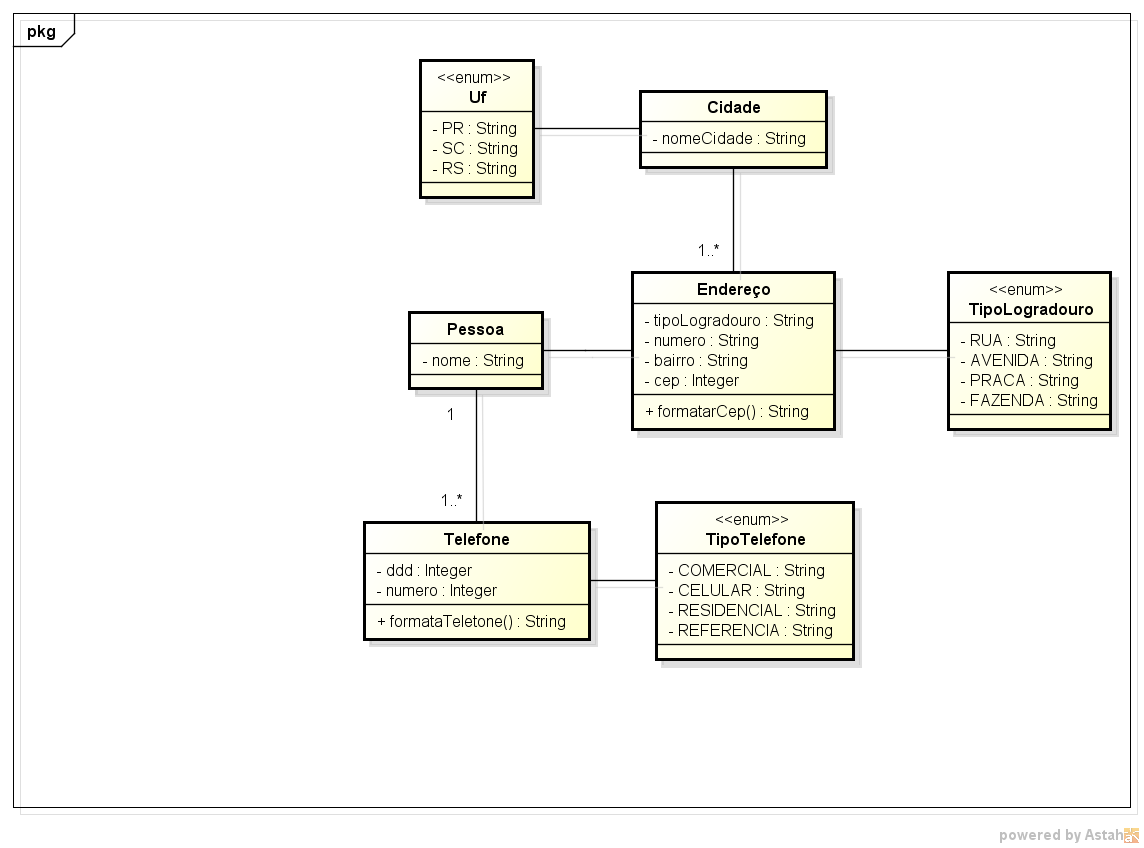
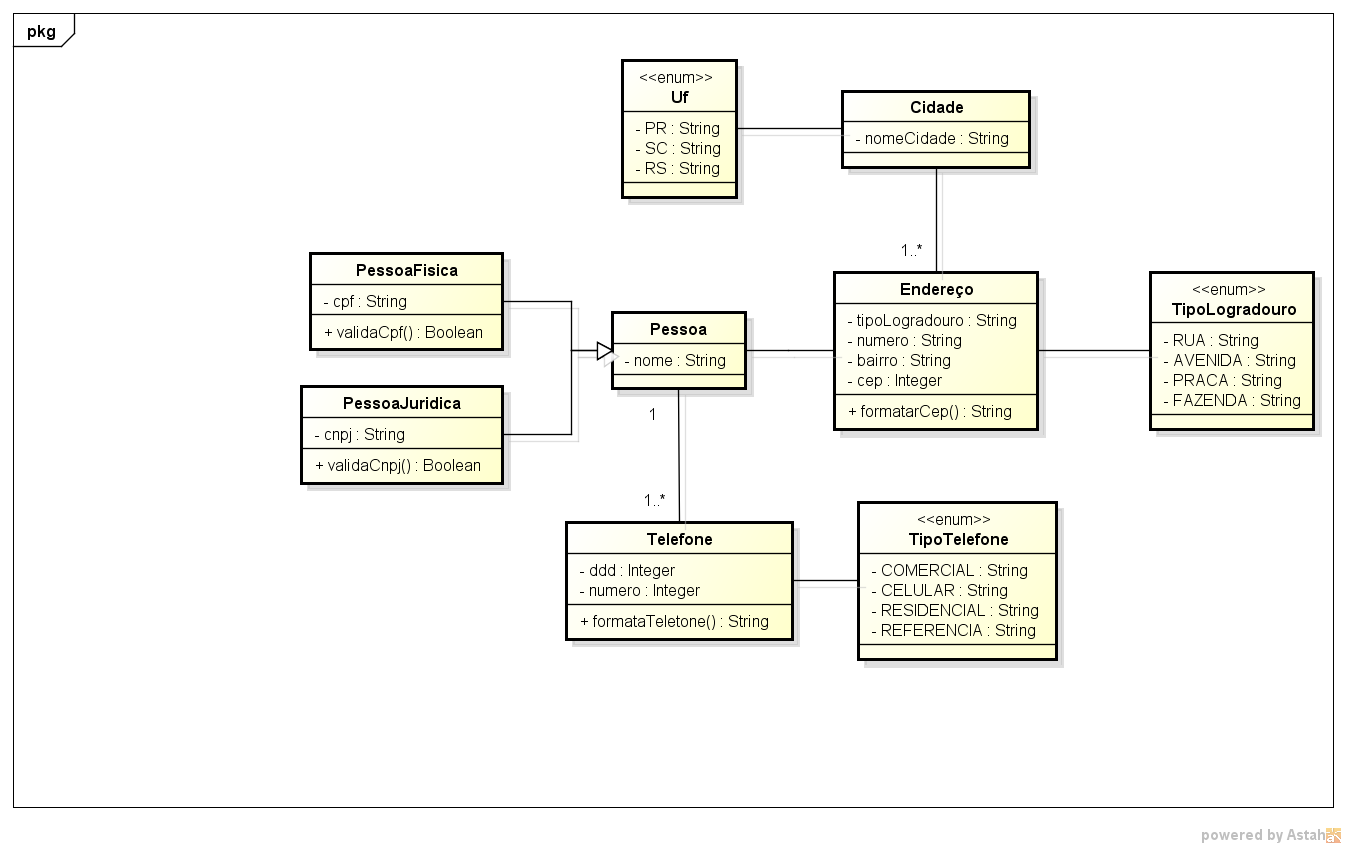
Atualizando

diff --git a/src/main/java/br/com/db1/Exercicios/Login/OO/Endereco.java b/src/main/java/br/com/db1/Exercicios/Login/OO/Endereco.java
@@ -5,29 +5,56 @@ public class Endereco {
 	private String numero;
 	private String bairro;
 	private Integer cep;
+	private Cidade cidade;
+	private Pessoa pessoa;
+	
 	public String getTipoLogradouro() {
 		return tipoLogradouro;
 	}
+
 	public void setTipoLogradouro(String tipoLogradouro) {
 		this.tipoLogradouro = tipoLogradouro;
 	}
+	
 	public String getNumero() {
 		return numero;
 	}
+
 	public void setNumero(String numero) {
 		this.numero = numero;
 	}
+
 	public String getBairro() {
 		return bairro;
 	}
+
 	public void setBairro(String bairro) {
 		this.bairro = bairro;
 	}
+
 	public Integer getCep() {
 		return cep;
 	}
+
 	public void setCep(Integer cep) {
 		this.cep = cep;
 	}
+
+	public Cidade getCidade() {
+		return cidade;
+	}
+
+	public void setCidade(Cidade cidade) {
+		this.cidade = cidade;
+	}
+
+	public Pessoa getPessoa() {
+		return pessoa;
+	}
+
+	public void setPessoa(Pessoa pessoa) {
+		this.pessoa = pessoa;
+	}
+	
 	
 }

diff --git a/src/main/java/br/com/db1/Exercicios/Login/OO/Pessoa.java b/src/main/java/br/com/db1/Exercicios/Login/OO/Pessoa.java
@@ -1,0 +1,27 @@
+package br.com.db1.Exercicios.Login.OO;
+
+public class Pessoa {
+	private String nome;
+	private Endereco endereco;
+	private Telefone telefone;
+	
+	public String getNome() {
+		return nome;
+	}
+	public void setNome(String nome) {
+		this.nome = nome;
+	}
+	public Endereco getEndereco() {
+		return endereco;
+	}
+	public void setEndereco(Endereco endereco) {
+		this.endereco = endereco;
+	}
+	public Telefone getTelefone() {
+		return telefone;
+	}
+	public void setTelefone(Telefone telefone) {
+		this.telefone = telefone;
+	}
+		
+}

diff --git a/src/main/java/br/com/db1/Exercicios/Login/OO/PessoaJuridica.java b/src/main/java/br/com/db1/Exercicios/Login/OO/PessoaJuridica.java
@@ -1,0 +1,17 @@
+package br.com.db1.Exercicios.Login.OO;
+
+public class PessoaJuridica extends Pessoa{
+	private String cnpj;
+
+	public String getCnpj() {
+		return cnpj;
+	}
+
+	public void setCnpj(String cnpj) {
+		this.cnpj = cnpj;
+	}
+	
+	public Boolean validaCnpj(){
+		return true;
+	}
+}

diff --git a/src/main/java/br/com/db1/Exercicios/Login/OO/PessoaFisica.java b/src/main/java/br/com/db1/Exercicios/Login/OO/PessoaFisica.java
@@ -1,0 +1,17 @@
+package br.com.db1.Exercicios.Login.OO;
+
+public class PessoaFisica extends Pessoa{
+	private String cpf;
+
+	public String getCpf() {
+		return cpf;
+	}
+
+	public void setCpf(String cpf) {
+		this.cpf = cpf;
+	}
+	
+	public Boolean validadorCpf(){
+		return true;
+	}
+}

diff --git a/src/main/java/br/com/d1b1type/login/oo/TipoTelefone.java b/src/main/java/br/com/d1b1type/login/oo/TipoTelefone.java
@@ -1,11 +1,7 @@
 package br.com.d1b1type.login.oo;
 
 public enum TipoTelefone {
-
-	COMERCIAL,
-	CELULAR,
-	RESIDENCIAL,
-	REFERENCIA;
 	
+	COMERCIAL, CELULAR, RESIDENCIAL, REFERENCIA;
 	
 }

diff --git a/src/main/java/br/com/d1b1type/login/oo/TipoLogradouro.java b/src/main/java/br/com/d1b1type/login/oo/TipoLogradouro.java
@@ -1,8 +1,7 @@
 package br.com.d1b1type.login.oo;
 
 public enum TipoLogradouro {
-	RUA,
-	FAZENDA,
-	PRACA,
-	AVENIDA;
+	
+	RUA, FAZENDA, PRACA, AVENIDA;
+	
 }

diff --git a/src/main/java/br/com/db1/Exercicios/Login/OO/Telefone.java b/src/main/java/br/com/db1/Exercicios/Login/OO/Telefone.java
@@ -32,8 +32,5 @@ public class Telefone {
 		this.tipos = tipos;
 	}
 
-	public String formataTelefone() {
-		return "(" + ddd + ")" + numero;
-	}
-
+	
 }
